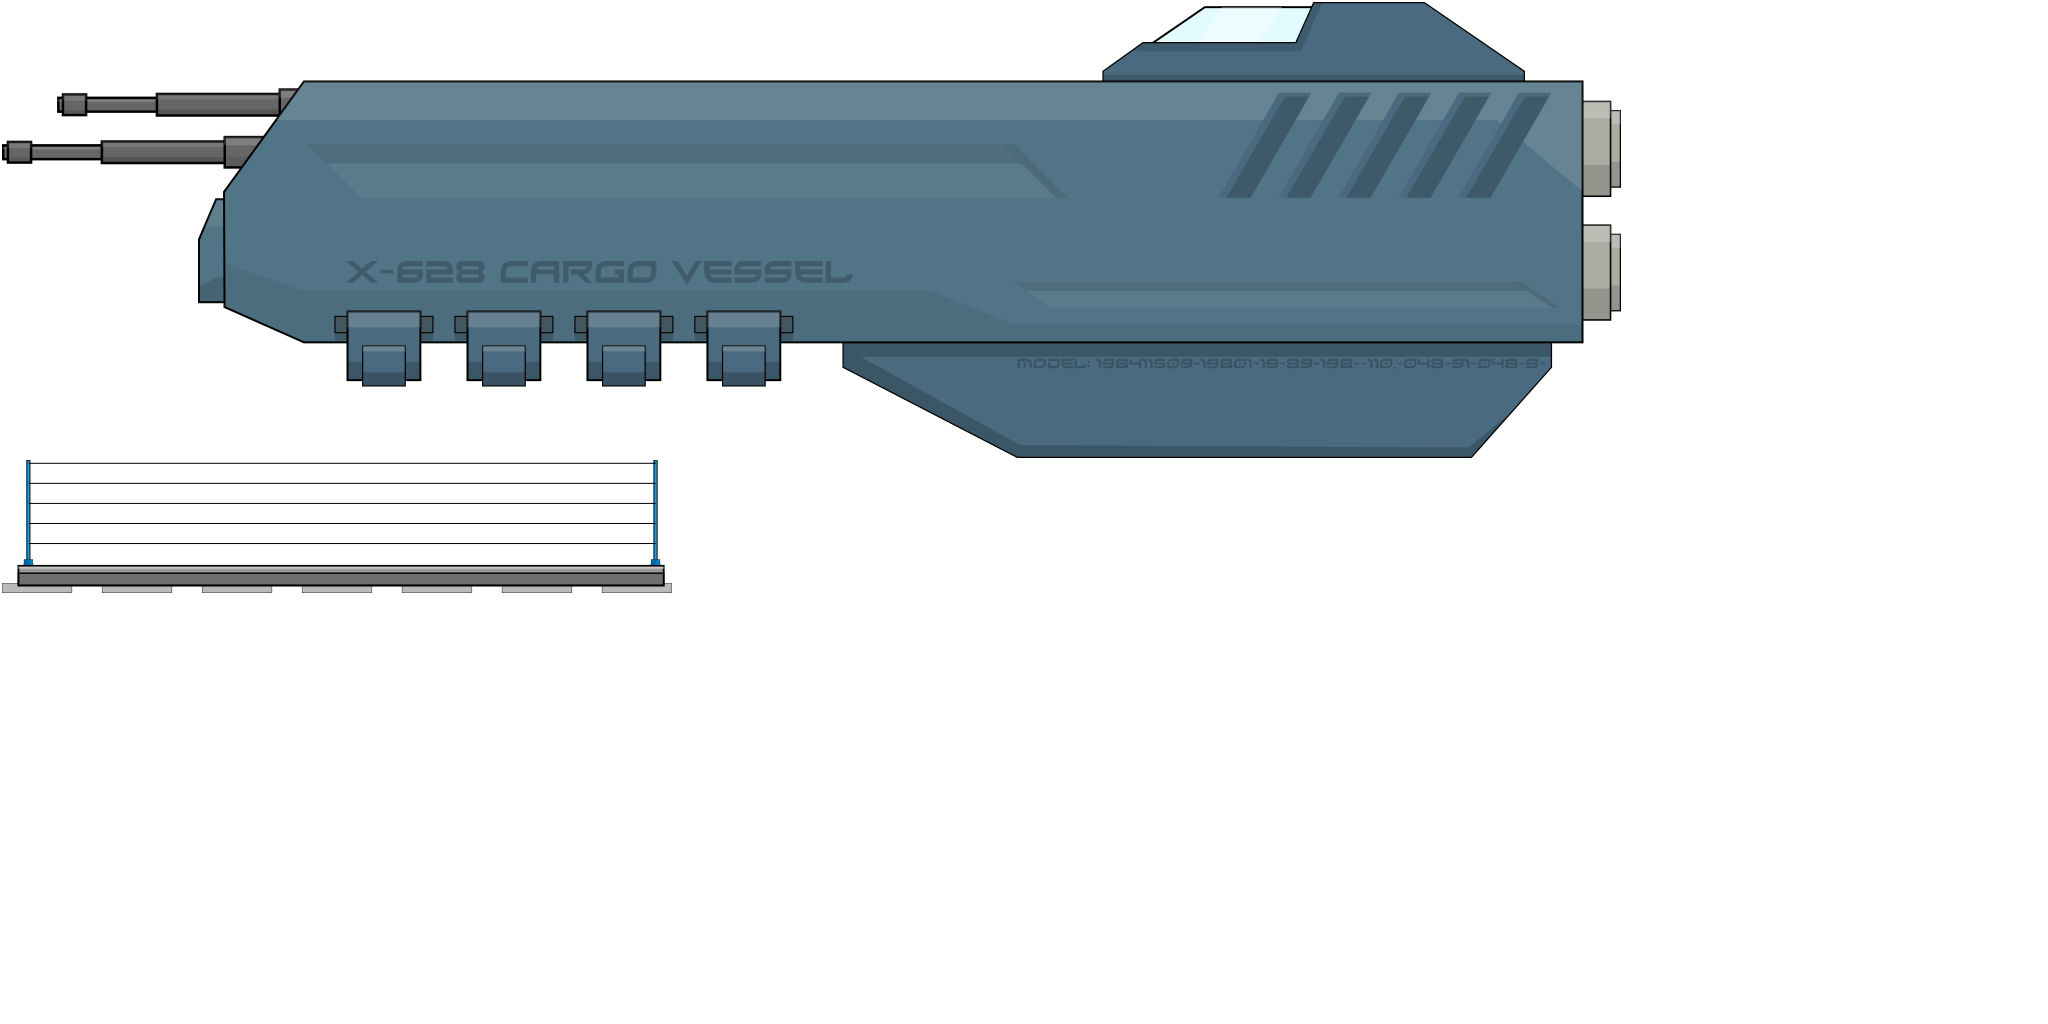
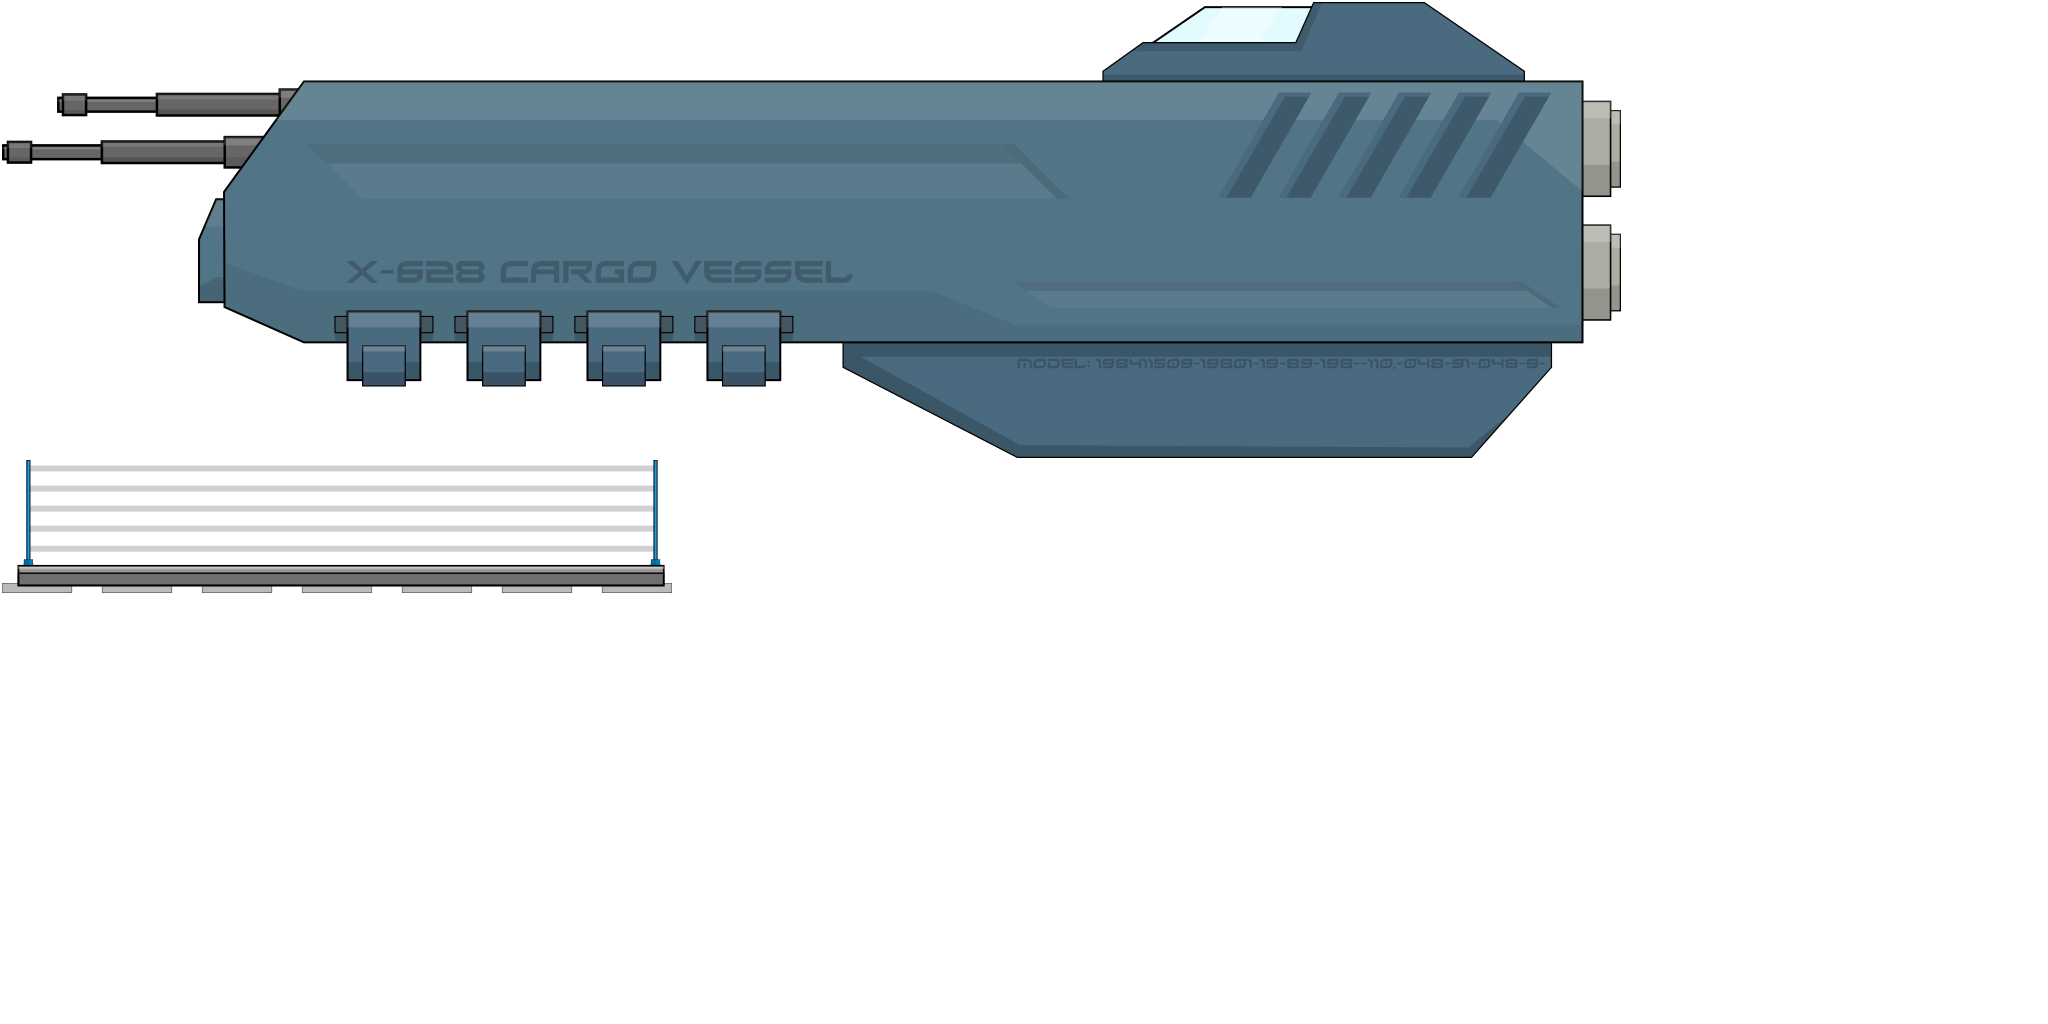
added cargo verssel and loading area

Changed region(s): [[0.0, 0.4375, 0.3125, 0.5625]]

diff --git a/core/src/se/powerslidestudios/scenes/GameScene.java b/core/src/se/powerslidestudios/scenes/GameScene.java
@@ -5,30 +5,27 @@ import se.powerslidestudios.ld31.input.DirectionalInputTouchPanels;
 import se.powerslidestudios.ld31.input.TouchArea;
 import se.powerslidestudios.ld31.particles.ParticleManager;
 import se.powerslidestudios.ld31.particles.backgrounds.TiledGround;
-import se.powerslidestudios.physics.ConvertUnits;
+import se.powerslidestudios.ships.CargoVessel;
 import se.powerslidestudios.ships.PlayerShip;
 import se.skoggy.atlases.TextureAtlas;
 import se.skoggy.audio.IAudio;
-import se.skoggy.entity.Entity;
 import se.skoggy.game.IGameContext;
 import se.skoggy.scenes.SceneState;
 import se.skoggy.utils.ServiceLocator;
 
+import com.badlogic.gdx.Gdx;
+import com.badlogic.gdx.graphics.GL20;
 import com.badlogic.gdx.math.Vector2;
-import com.badlogic.gdx.physics.box2d.Body;
-import com.badlogic.gdx.physics.box2d.BodyDef;
-import com.badlogic.gdx.physics.box2d.BodyDef.BodyType;
 import com.badlogic.gdx.physics.box2d.Box2DDebugRenderer;
-import com.badlogic.gdx.physics.box2d.PolygonShape;
 import com.badlogic.gdx.physics.box2d.World;
 
 public class GameScene extends GuiScene{
 
-	Entity staticBackground;
 	TiledGround ground;
 	
 	PlayerShip ship;
 	DirectionalInputTouchPanels directionalInput;
+	CargoVessel cargoVessel;
 	
 	ParticleManager particleManager;
 	
@@ -44,17 +41,25 @@ public class GameScene extends GuiScene{
 	@Override
 	public void load() {
 		super.load();
-	
+
+		debugRenderer = new Box2DDebugRenderer();
+		world = new World(new Vector2(0f, 0f), true);
+		
 		directionalInput = new DirectionalInputTouchPanels(new Vector2(width / 2, height / 2));
-		staticBackground = new Entity(content().loadTexture("gfx/background"));
 		
 		TextureAtlas playerShipAtlas = new TextureAtlas(content());
 		playerShipAtlas.register("atlases/player_ship");
 		
-		ship = new PlayerShip(playerShipAtlas);
+		ship = new PlayerShip(playerShipAtlas, world);
 
 		TextureAtlas buildingAtlas = new TextureAtlas(content());
 		buildingAtlas.register("atlases/buildings");
+		
+		TextureAtlas cargoVesselAtlas = new TextureAtlas(content());
+		cargoVesselAtlas.register("atlases/cargo_vessel");
+		
+		cargoVessel = new CargoVessel(cargoVesselAtlas, world);
+		cargoVessel.setPosition(300, -1000);
 		
 		
 		ground = new TiledGround(content().loadTexture("gfx/ground").getTexture(), -1000, 200, 24);
@@ -66,28 +71,9 @@ public class GameScene extends GuiScene{
 		particleManager = new ParticleManager();
 		particleManager.load(content());
 		
-		debugRenderer = new Box2DDebugRenderer();
-		world = new World(new Vector2(0f, 0f), true);
 
-
-		
-		createShipBody();
 	}
 	
-	private void createShipBody() {
-		BodyDef bodyDefinition = new BodyDef();
-		bodyDefinition.type = BodyType.DynamicBody;
-		
-		PolygonShape shape = new PolygonShape();
-		shape.setAsBox(ConvertUnits.toSim(ship.getSource().width), ConvertUnits.toSim(ship.getSource().height));
-				
-		Body body = world.createBody(bodyDefinition);
-		body.createFixture(shape, 1f);
-	
-		shape.dispose();
-	
-		ship.body = body;
-	}
 
 	@Override
 	public float transitionInDuration() {
@@ -179,17 +165,26 @@ public class GameScene extends GuiScene{
 		}else{
 			audio.pauseSong("thrust");
 		}
-	
+
+		Vector2 cargoThruster1 = cargoVessel.getThrusterPosition(0);
+		Vector2 cargoThruster2 = cargoVessel.getThrusterPosition(1);
+
+		largeThrust(cargoThruster1);
+		largeThrust(cargoThruster2);
+		
 		updatePhysics(dt);
 	
 		ship.update(dt);
+		cargoVessel.update(dt);
 		loadingArea.update(dt);
 		particleManager.update(dt);
 		
 	
-		cam.move(ship.transform.position.x, ship.transform.position.y);
+		cam.setZoom(1.2f);
 		
-		staticBackground.update(dt);
+		//cam.move(ship.transform.position.x, ship.transform.position.y);
+		cam.move(cargoVessel.transform.position.x, cargoVessel.transform.position.y);
+		
 		ground.update(dt);
 		super.update(dt);
 	}
@@ -206,25 +201,33 @@ public class GameScene extends GuiScene{
 		
 	}
 
+	private void largeThrust(Vector2 position) {		
+		float distance = 96f;
+		particleManager.spawnThrusterLarge(position.x + (float)Math.cos(0f) * distance, position.y + (float)Math.sin(0f) * distance, 0f);
+		
+	}
+
 	private void updatePhysics(float dt) {
 		world.step(1/60f, 6, 2);	
 	}
 	
 	@Override
 	public void draw() {
+		Gdx.gl.glClearColor(0f, 0f, 0f, 1);
+		Gdx.gl.glClear(GL20.GL_COLOR_BUFFER_BIT);
 		
 		spriteBatch.setProjectionMatrix(cam.combined);
 		spriteBatch.begin();
-		staticBackground.draw(spriteBatch);
 		ground.draw(spriteBatch, cam);
 		loadingArea.draw(spriteBatch);
-		particleManager.draw(spriteBatch);
 		ship.draw(spriteBatch);
+		cargoVessel.draw(spriteBatch);
+		particleManager.draw(spriteBatch);
 		spriteBatch.end();
 		
 		cam.setZoom(cam.zoom * 0.01f);
 		cam.update();
-		//debugRenderer.render(world, cam.getParallax(0.01f));
+		debugRenderer.render(world, cam.getParallax(0.01f));
 		cam.setZoom(cam.zoom * 100f);
 		
 		super.draw();

diff --git a/core/src/se/powerslidestudios/ships/CargoVessel.java b/core/src/se/powerslidestudios/ships/CargoVessel.java
@@ -1,0 +1,88 @@
+package se.powerslidestudios.ships;
+
+import se.powerslidestudios.physics.ConvertUnits;
+import se.skoggy.atlases.TextureAtlas;
+import se.skoggy.entity.Entity;
+
+import com.badlogic.gdx.graphics.g2d.SpriteBatch;
+import com.badlogic.gdx.math.Vector2;
+import com.badlogic.gdx.physics.box2d.Body;
+import com.badlogic.gdx.physics.box2d.BodyDef;
+import com.badlogic.gdx.physics.box2d.BodyDef.BodyType;
+import com.badlogic.gdx.physics.box2d.PolygonShape;
+import com.badlogic.gdx.physics.box2d.World;
+
+public class CargoVessel extends Entity{
+
+	Vector2 loadingAreaoffset;
+	private Entity loadingArea;
+	private TextureAtlas atlas;
+	private Body body;
+
+	public CargoVessel(TextureAtlas atlas, World world) {
+		super(atlas.getTexture("cargo_vessel_body"));
+		this.atlas = atlas;
+		
+		loadingArea = new Entity(atlas.getTexture("loading_area"));
+		loadingAreaoffset = new Vector2(-100, -200);
+		
+		createPhysicsBody(world);
+	}
+	
+	private void createPhysicsBody(World world) {
+		BodyDef bodyDefinition = new BodyDef();
+		bodyDefinition.type = BodyType.DynamicBody;
+		
+		PolygonShape shape = new PolygonShape();
+		shape.setAsBox(ConvertUnits.toSim(getSource().width * 0.8f), ConvertUnits.toSim(getSource().height * 0.6f), new Vector2(ConvertUnits.toSim(240), ConvertUnits.toSim(-32)), 0f);
+		
+		PolygonShape loadingAreaBorderLeft = new PolygonShape();
+		loadingAreaBorderLeft.setAsBox(ConvertUnits.toSim(16), ConvertUnits.toSim(128), new Vector2(ConvertUnits.toSim(-800), ConvertUnits.toSim(-400)), 0f);
+
+		PolygonShape loadingAreaBorderRight = new PolygonShape();
+		loadingAreaBorderRight.setAsBox(ConvertUnits.toSim(16), ConvertUnits.toSim(128), new Vector2(ConvertUnits.toSim(420), ConvertUnits.toSim(-400)), 0f);
+		
+		Body body = world.createBody(bodyDefinition);
+		body.createFixture(shape, 1f);
+		body.createFixture(loadingAreaBorderLeft, 1f);
+		body.createFixture(loadingAreaBorderRight, 1f);
+		
+		body.setFixedRotation(true);
+		
+		shape.dispose();
+	
+		this.body = body;
+	}
+
+	public Vector2 getThrusterPosition(int index) {
+		if(index == 0)
+			return new Vector2(transform.position.x + 820, transform.position.y + -84);
+		if(index == 1)
+			return new Vector2(transform.position.x + 820, transform.position.y + 43);
+		throw new RuntimeException("Index does not exist");
+	}
+	
+	@Override
+	public void setPosition(float x, float y) {
+		super.setPosition(x, y);
+		body.setTransform(ConvertUnits.toSim(x), ConvertUnits.toSim(y),0);
+	}
+
+	@Override
+	public void update(float dt) {
+		super.update(dt);
+
+		transform.position.x = ConvertUnits.fromSim(body.getPosition().x);
+		transform.position.y = ConvertUnits.fromSim(body.getPosition().y);
+		transform.rotation = body.getAngle();
+		
+		loadingArea.setPosition(transform.position.x + loadingAreaoffset.x, transform.position.y + loadingAreaoffset.y);
+	}
+	
+	
+	@Override
+	public void draw(SpriteBatch spriteBatch) {
+		super.draw(spriteBatch);
+		loadingArea.draw(spriteBatch);
+	}
+}

diff --git a/core/src/se/powerslidestudios/ld31/particles/ParticleManager.java b/core/src/se/powerslidestudios/ld31/particles/ParticleManager.java
@@ -30,8 +30,8 @@ public class ParticleManager {
 		p.current = 0f;
 		p.duration = Rand.rand(100f, 300f);
 		
-		p.scaleX = 0.5f;
-		p.scaleY = 0.5f;
+		p.startScale = 0.5f;
+		p.endScale = 1f;
 		p.rotation = rotation;
 		p.x = x;
 		p.y = y;
@@ -39,8 +39,24 @@ public class ParticleManager {
 		float force = 0.1f;
 
 		p.velX = (float)Math.cos(rotation) * force;
-		p.velY = (float)Math.sin(rotation) * force;
+		p.velY = (float)Math.sin(rotation) * force;		
+	}
+	
+	public void spawnThrusterLarge(float x, float y, float rotation) {
+		Particle p = particles.pop();
+		p.current = 0f;
+		p.duration = Rand.rand(100f, 300f);
 		
+		p.startScale = 3f;
+		p.endScale = 6f;
+		p.rotation = rotation;
+		p.x = x;
+		p.y = y;
+		
+		float force = 0.3f;
+
+		p.velX = (float)Math.cos(rotation) * force;
+		p.velY = (float)Math.sin(rotation) * force;		
 	}
 	
 	public void update(float dt){
@@ -53,8 +69,8 @@ public class ParticleManager {
 				p.x += p.velX * dt;
 				p.y += p.velY * dt;
 
-				p.scaleX = 0.5f + (p.current / p.duration) * 0.5f;
-				p.scaleY = 0.5f + (p.current / p.duration) * 0.5f;
+				p.scaleX = p.startScale + (p.endScale - p.startScale) * (p.current / p.duration);
+				p.scaleY = p.startScale + (p.endScale - p.startScale) * (p.current / p.duration);
 			}
 		}
 	}

diff --git a/core/src/se/powerslidestudios/ships/PlayerShip.java b/core/src/se/powerslidestudios/ships/PlayerShip.java
@@ -7,6 +7,10 @@ import se.skoggy.entity.Entity;
 import com.badlogic.gdx.graphics.g2d.SpriteBatch;
 import com.badlogic.gdx.math.Vector2;
 import com.badlogic.gdx.physics.box2d.Body;
+import com.badlogic.gdx.physics.box2d.BodyDef;
+import com.badlogic.gdx.physics.box2d.BodyDef.BodyType;
+import com.badlogic.gdx.physics.box2d.PolygonShape;
+import com.badlogic.gdx.physics.box2d.World;
 
 public class PlayerShip extends Entity{
 	
@@ -15,11 +19,29 @@ public class PlayerShip extends Entity{
 	
 	Thruster[] thrusters;
 
-	public PlayerShip(TextureAtlas atlas) {
+	public PlayerShip(TextureAtlas atlas, World world) {
 		super(atlas.getTexture("body"));
 		this.atlas = atlas;
 		
+		createShipBody(world);
 		createThrusters();
+	}
+
+	private void createShipBody(World world) {
+		BodyDef bodyDefinition = new BodyDef();
+		bodyDefinition.type = BodyType.DynamicBody;
+		
+		PolygonShape shape = new PolygonShape();
+		shape.setAsBox(ConvertUnits.toSim(getSource().width), ConvertUnits.toSim(getSource().height));
+				
+		Body body = world.createBody(bodyDefinition);
+		body.createFixture(shape, 1f);
+	
+		shape.dispose();
+		
+		body.setFixedRotation(true);
+	
+		this.body = body;
 	}
 	
 	private void createThrusters() {

diff --git a/core/src/se/powerslidestudios/physics/ConvertUnits.java b/core/src/se/powerslidestudios/physics/ConvertUnits.java
@@ -2,7 +2,7 @@ package se.powerslidestudios.physics;
 
 public class ConvertUnits {
 
-	static final float WORLD_TO_BOX = 0.01f;
+	static final float WORLD_TO_BOX = 0.005f;
 	static final float BOX_WORLD_TO = 100f;
 
 	public static float toSim(float world){

diff --git a/core/src/se/powerslidestudios/ld31/particles/Particle.java b/core/src/se/powerslidestudios/ld31/particles/Particle.java
@@ -4,4 +4,5 @@ public class Particle {
 	public float current, duration;
 	public float x, y, velX, velY;
 	public float rotation, scaleX, scaleY;
+	public float startScale, endScale;
 }
